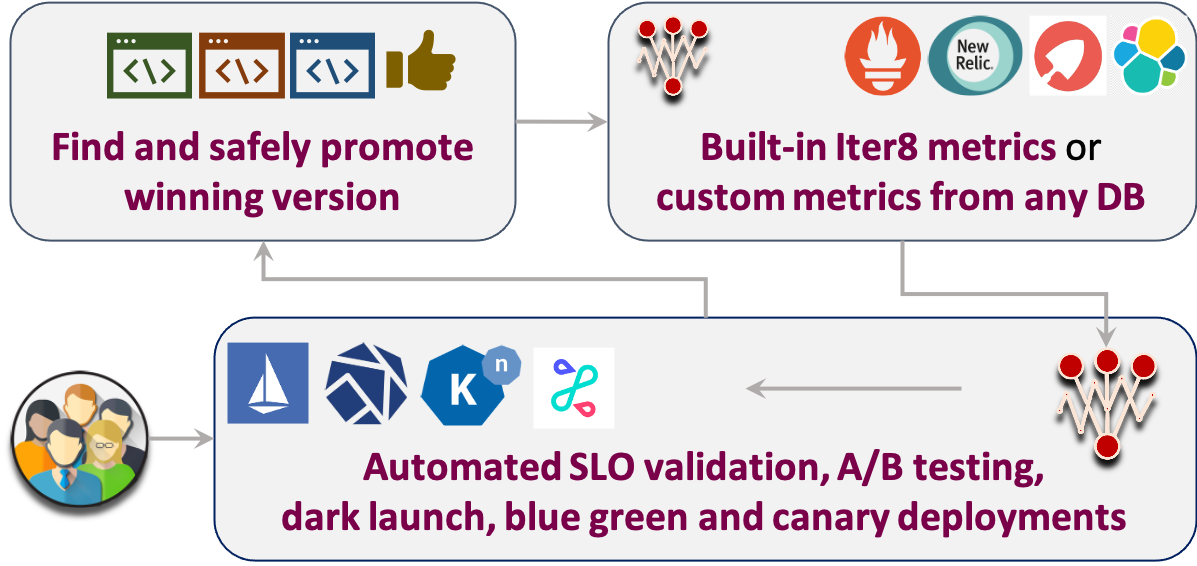
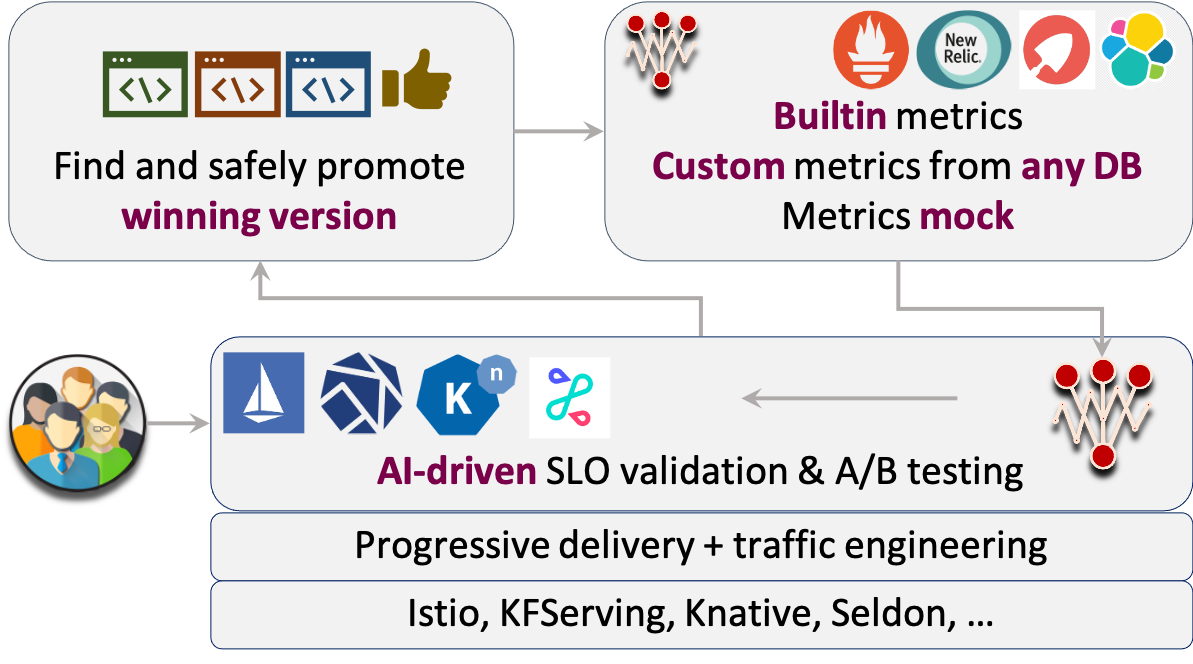
Align knative tutorials with the rest (#758)
* align knative tutorials with the rest

* routing rule

* improved illustrations

Changed region(s): [[0.0, 0.0, 1.0, 1.0]]

diff --git a/mkdocs/docs/tutorials/traffic-engineering/user-segmentation.md b/mkdocs/docs/tutorials/traffic-engineering/user-segmentation.md
@@ -2,32 +2,30 @@
 template: main.html
 ---
 
-# Progressive Canary Release with Traffic Segmentation
+# User Segmentation
 
-!!! tip ""
-    An experiment with [`Canary`](../../../concepts/buildingblocks/#testing-pattern) testing, [`Progressive`](../../../concepts/buildingblocks/#deployment-pattern) deployment and [traffic segmentation](../../../concepts/buildingblocks/#traffic-engineering).
+!!! tip "Scenario: SLO validation with user segmentation"
+    [User segmentation](../../../concepts/buildingblocks/#traffic-engineering) is the ability to carve out a specific segment of users for an experiment, leaving the rest of the users unaffected by the experiment.
+
+    In this tutorial, we will segment users into two groups: those from Wakanda, and others. Users from Wakanda will participate in the experiment: specifically, requests originating in Wakanda may be routed to baseline or candidate; requests that are originating from Wakanda will not participate in the experiment and are routed only to the baseline The experiment is depicted below.
+
+    ![User segmentation](../../images/request-routing.png)    
+
+???+ warning "Before you begin... "
+
+    This tutorial is available for the following K8s stacks.
+
+    [Knative](#before-you-begin){ .md-button }
+
+    Please choose the same K8s stack consistently throughout this tutorial. If you wish to switch K8s stacks between tutorials, start from a clean K8s cluster, so that your cluster is correctly setup.
+
+## Steps 1 to 3
     
-    ![Canary](../../images/request-routing.png)
+Please follow steps 1 through 3 of the [quick start tutorial](../../../getting-started/quick-start/#1-create-kubernetes-cluster).
 
-You will create the following resources in this tutorial.
-
-1. **Knative services** implementing an app with `baseline` and `candidate` versions.
-2. An  **Istio virtual service** which routes requests based on an HTTP header called `country`. All requests are routed to the `baseline`, except those with their `country` header field set to `wakanda`; these may be routed to the `baseline` or `candidate`.
-3. Two **curl-based traffic generators** which simulate user requests; one of them sets the `country` HTTP header field in its requests to `wakanda`, and the other sets it to `gondor`.
-4. An **Iter8 experiment** which verifies that the `candidate` satisfies mean latency, 95th percentile tail latency, and error rate `objectives`, and progressively increases the proportion of traffic with `country: wakanda` header that is routed to the `candidate`.
-
-???+ warning "Before you begin, you will need... "
-    **Kubernetes cluster with Iter8, Knative and Istio:** Ensure that you have a Kubernetes cluster with Iter8, Knative with the Istio networking layer, Prometheus add-on, and Iter8's sample metrics for Knative installed. You can do so by following Steps 1, 2, 3 and 6 of the [quick start tutorial for Knative](../../../getting-started/quick-start/with-knative/), and selecting Istio during Step 3.
-
-    **Cleanup:** If you ran an Iter8 tutorial earlier, run the associated cleanup step.
-
-    **ITER8 environment variable:** Ensure that `ITER8` environment variable is set to the root directory of your cloned Iter8 repo. See [Step 2 of the quick start tutorial for Knative](../../../getting-started/quick-start/with-knative/#2-clone-iter8-repo) for example.
-
-    **[`iter8ctl`](../../../getting-started/quick-start/with-knative/#8-observe-experiment):** This tutorial uses `iter8ctl`.
-
-## 1. Create versions
+## 4. Create versions
 ```shell
-kubectl apply -f $ITER8/samples/knative/traffic-segmentation/services.yaml
+kubectl apply -f $ITER8/samples/knative/user-segmentation/services.yaml
 ```
 
 ??? info "Look inside services.yaml"
@@ -70,9 +68,9 @@ kubectl apply -f $ITER8/samples/knative/traffic-segmentation/services.yaml
     ```
 
 
-## 2. Create Istio virtual service
+## 5. Create routing rule
 ```shell
-kubectl apply -f $ITER8/samples/knative/traffic-segmentation/routing-rule.yaml
+kubectl apply -f $ITER8/samples/knative/user-segmentation/routing-rule.yaml
 ```
 
 ??? info "Look inside routing-rule.yaml"
@@ -123,12 +121,12 @@ kubectl apply -f $ITER8/samples/knative/traffic-segmentation/routing-rule.yaml
                 Host: sample-app-v1.default
     ```
 
-## 3. Generate traffic
+## 6. Generate traffic
 ```shell
 TEMP_DIR=$(mktemp -d)
 cd $TEMP_DIR
 curl -L https://istio.io/downloadIstio | ISTIO_VERSION=1.8.2 sh -
-istio-1.8.2/bin/istioctl kube-inject -f $ITER8/samples/knative/traffic-segmentation/curl.yaml | kubectl create -f -
+istio-1.8.2/bin/istioctl kube-inject -f $ITER8/samples/knative/user-segmentation/curl.yaml | kubectl create -f -
 cd $ITER8
 ```
 
@@ -166,11 +164,11 @@ cd $ITER8
           restartPolicy: Never
     ```
 
-## 4. Create Iter8 experiment
+## 7. Create Iter8 experiment
 ```shell
 kubectl wait --for=condition=Ready ksvc/sample-app-v1
 kubectl wait --for=condition=Ready ksvc/sample-app-v2
-kubectl apply -f $ITER8/samples/knative/traffic-segmentation/experiment.yaml
+kubectl apply -f $ITER8/samples/knative/user-segmentation/experiment.yaml
 ```
 
 ??? info "Look inside experiment.yaml"
@@ -226,38 +224,8 @@ kubectl apply -f $ITER8/samples/knative/traffic-segmentation/experiment.yaml
             fieldPath: .spec.http[0].route[1].weight
     ```
 
-## 5. Observe experiment
-Observe the experiment in realtime. Paste commands from the tabs below in separate terminals.
-
-=== "Metrics-based analysis"
-    ```shell
-    while clear; do
-    kubectl get experiment request-routing -o yaml | iter8ctl describe -f -
-    sleep 4
-    done
-    ```
-
-    The output will look similar to the [iter8ctl output](../../../getting-started/quick-start/with-knative/#8-observe-experiment) in the quick start instructions.
-
-    As the experiment progresses, you should eventually see that all of the objectives reported as being satisfied by both versions. The candidate is identified as the winner and is recommended for promotion. When the experiment completes (in ~ 2 mins), you will see the experiment stage change from `Running` to `Completed`.
-
-=== "Experiment progress"
-    ```shell
-    kubectl get experiment request-routing --watch
-    ```
-
-    The output will look similar to the [kubectl get experiment output](../../../getting-started/quick-start/with-knative/#8-observe-experiment) in the quick start instructions.
-
-    When the experiment completes (in ~ 2 mins), you will see the experiment stage change from `Running` to `Completed`.
-
-=== "Traffic split"
-    ```shell
-    kubectl get vs routing-for-wakanda -o json --watch | jq .spec.http[0].route
-    ```
-
-    The output shows the traffic split for the wakanda as defined in the `VirtualService` resource.
-
-    As the experiment progresses, you should see traffic progressively shift from host `sample-app-v1.default.svc.cluster.local` to host `sample-app-v2.default.svc.cluster.local`. When the experiment completes, the traffic remains split; this experiment has no _finish_ action to promote the winning version.
+## 8. Observe experiment
+Please follow [Step 8 of the quick start tutorial](../../../getting-started/quick-start/#8-observe-experiment) to observe the experiment in realtime. Note that the experiment in this tutorial uses a different name from the quick start one. Replace the experiment name `quickstart-exp` with `request-routing` in your commands. You can also observe traffic by suitably modifying the commands for observing traffic.
 
 ???+ info "Understanding what happened"
     1. You configured two Knative services corresponding to two versions of your app in `services.yaml`.
@@ -274,10 +242,10 @@ Observe the experiment in realtime. Paste commands from the tabs below in separa
     
     6. You created an Iter8 `Canary` experiment with `Progressive` deployment pattern to evaluate the `candidate`. In each iteration, Iter8 observed the mean latency, 95th percentile tail-latency, and error-rate metrics collected by Prometheus, and verified that the `candidate` version satisfied all the `objectives` specified in the experiment. It progressively increased the proportion of traffic with `country: wakanda` header that is routed to the `candidate`.
 
-## 6. Cleanup
+## 9. Cleanup
 ```shell
-kubectl delete -f $ITER8/samples/knative/traffic-segmentation/experiment.yaml
-kubectl delete -f $ITER8/samples/knative/traffic-segmentation/curl.yaml
-kubectl delete -f $ITER8/samples/knative/traffic-segmentation/routing-rule.yaml
-kubectl delete -f $ITER8/samples/knative/traffic-segmentation/services.yaml
+kubectl delete -f $ITER8/samples/knative/user-segmentation/experiment.yaml
+kubectl delete -f $ITER8/samples/knative/user-segmentation/curl.yaml
+kubectl delete -f $ITER8/samples/knative/user-segmentation/routing-rule.yaml
+kubectl delete -f $ITER8/samples/knative/user-segmentation/services.yaml
 ```

diff --git a/mkdocs/docs/tutorials/traffic-engineering/mirroring.md b/mkdocs/docs/tutorials/traffic-engineering/mirroring.md
@@ -2,30 +2,30 @@
 template: main.html
 ---
 
-# Conformance Testing with Traffic Mirroring
+# Traffic Mirroring
 
-!!! tip ""
-    An experiment with [`Conformance`](../../../concepts/buildingblocks/#testing-pattern) testing and [traffic mirroring](../../../concepts/buildingblocks/#traffic-engineering).
+!!! tip "Scenario: SLO validation for a dark launched version with mirrored traffic"
+
+    [Traffic mirroring or shadowing](../../../concepts/buildingblocks/#traffic-engineering) enables experimenting with a dark launched version with zero-impact on end-users. Mirrored traffic is a replica of the real user requests that is routed to the dark version. Metrics are collected and evaluated for the dark version, but responses from the dark version are ignored.
     
-    ![Canary](../../images/mirroring.png)
+    In this tutorial, you will use mirror traffic to a dark launched version as depicted below.
 
-You will create the following resources in this tutorial.
+    ![Mirroring](../../images/mirroring.png)
 
-1. A **Knative sample app** with live and dark versions.
-2. **Istio virtual services** which send all requests to the live version, mirror 40% of the requests and send the mirrored traffic to the dark version; responses from the dark version are ignored since it receives only mirrored requests.
-3. A **curl-based traffic generator** which simulates user requests.
-4. An **Iter8 experiment** that verifies that the dark version satisfies mean latency, 95th percentile tail latency, and error rate `objectives`.
+    
+???+ warning "Before you begin... "
 
-???+ warning "Before you begin, you will need... "
-    **Kubernetes cluster with Iter8, Knative and Istio:** Ensure that you have a Kubernetes cluster with Iter8, Knative with the Istio networking layer, Prometheus add-on, and Iter8's sample metrics for Knative installed. You can do so by following Steps 1, 2, 3 and 6 of the [quick start tutorial for Knative](../../../getting-started/quick-start/with-knative/), and selecting Istio during Step 3.
+    This tutorial is available for the following K8s stacks.
 
-    **Cleanup:** If you ran an Iter8 tutorial earlier, run the associated cleanup step.
+    [Knative](#before-you-begin){ .md-button }
 
-    **ITER8 environment variable:** Ensure that `ITER8` environment variable is set to the root directory of your cloned Iter8 repo. See [Step 2 of the quick start tutorial for Knative](../../../getting-started/quick-start/with-knative/#2-clone-iter8-repo) for example.
+    Please choose the same K8s stack consistently throughout this tutorial. If you wish to switch K8s stacks between tutorials, start from a clean K8s cluster, so that your cluster is correctly setup.
+    
+## Steps 1 to 3
+    
+Please follow steps 1 through 3 of the [quick start tutorial](../../../getting-started/quick-start/#1-create-kubernetes-cluster).
 
-    **[`iter8ctl`](../../../getting-started/quick-start/with-knative/#8-observe-experiment):** This tutorial uses `iter8ctl`.
-
-## 1. Create app with live and dark versions
+## 4. Create app with live and dark versions
 ```shell
 kubectl apply -f $ITER8/samples/knative/mirroring/service.yaml
 ```
@@ -70,7 +70,7 @@ kubectl apply -f $ITER8/samples/knative/mirroring/service.yaml
         percent: 0
     ```
 
-## 2. Create Istio virtual services
+## 5. Create routing rule
 ```shell
 kubectl apply -f $ITER8/samples/knative/mirroring/routing-rules.yaml
 ```
@@ -136,7 +136,7 @@ kubectl apply -f $ITER8/samples/knative/mirroring/routing-rules.yaml
     ```
 
 
-## 3. Generate requests
+## 6. Generate requests
 
 ```shell
 TEMP_DIR=$(mktemp -d)
@@ -171,7 +171,7 @@ cd $ITER8
           restartPolicy: Never
     ```
 
-## 4. Create Iter8 experiment
+## 7. Create Iter8 experiment
 ```shell
 kubectl wait --for=condition=Ready ksvc/sample-app
 kubectl apply -f $ITER8/samples/knative/mirroring/experiment.yaml
@@ -213,29 +213,8 @@ kubectl apply -f $ITER8/samples/knative/mirroring/experiment.yaml
             value: sample-app-v2
     ```
 
-## 5. Observe experiment
-Observe the experiment in realtime. Paste commands from the tabs below in separate terminals.
-
-=== "Metrics-based analysis"
-    ```shell
-    while clear; do
-    kubectl get experiment mirroring -o yaml | iter8ctl describe -f -
-    sleep 4
-    done
-    ```
-
-    The output will look similar to the [iter8ctl output](../../../getting-started/quick-start/with-knative/#8-observe-experiment) in the quick start instructions.
-
-    As the experiment progresses, you should eventually see that all of the objectives reported as being satisfied by the version being tested. When the experiment completes (in ~ 2 mins), you will see the experiment stage change from `Running` to `Completed`.
-
-=== "Experiment progress"
-    ```shell
-    kubectl get experiment mirroring --watch
-    ```
-
-    The output will look similar to the [kubectl get experiment output](../../../getting-started/quick-start/with-knative/#8-observe-experiment) in the quick start instructions.
-
-    When the experiment completes (in ~ 2 mins), you will see the experiment stage change from `Running` to `Completed`.
+## 8. Observe experiment
+Please follow [Step 8 of the quick start tutorial](../../../getting-started/quick-start/#8-observe-experiment) to observe the experiment in realtime. Note that the experiment in this tutorial uses a different name from the quick start one. Replace the experiment name `quickstart-exp` with `mirroring` in your commands. You can also observe traffic by suitably modifying the commands for observing traffic.
 
 ???+ info "Understanding what happened"
     1. You configured a Knative service with two versions of your app. In the `service.yaml` manifest, you specified that the live version, `sample-app-v1`, should receive 100% of the production traffic and the dark version, `sample-app-v2`, should receive 0% of the production traffic.
@@ -250,7 +229,7 @@ Observe the experiment in realtime. Paste commands from the tabs below in separa
     
     5. You created an Iter8 `Conformance` experiment to evaluate the dark version. In each iteration, Iter8 observed the mean latency, 95th percentile tail-latency, and error-rate metrics for the dark version collected by Prometheus, and verified that the dark version satisfied all the objectives specified in `experiment.yaml`.
 
-## 6. Cleanup
+## 9. Cleanup
 
 ```shell
 kubectl delete -f $ITER8/samples/knative/mirroring/curl.yaml

diff --git a/mkdocs/docs/tutorials/traffic-engineering/session-affinity.md b/mkdocs/docs/tutorials/traffic-engineering/session-affinity.md
@@ -14,8 +14,6 @@ template: main.html
 
     ![Session affinity](../../images/session-affinity-exp.png)
 
-    
-
 
 ???+ warning "Before you begin... "
 
